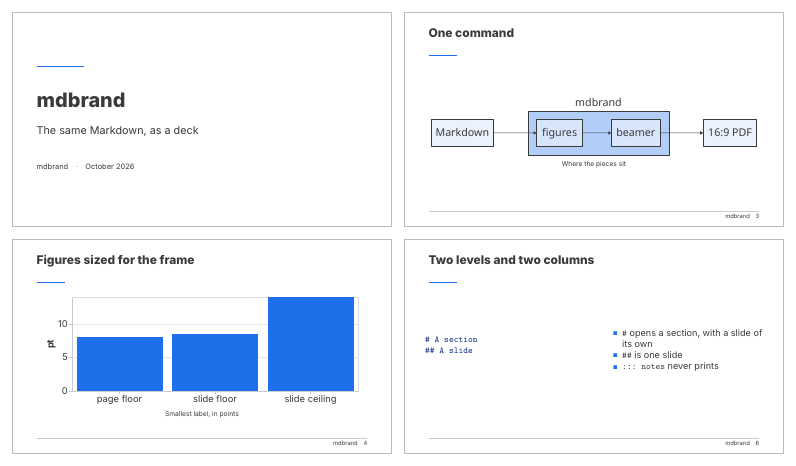
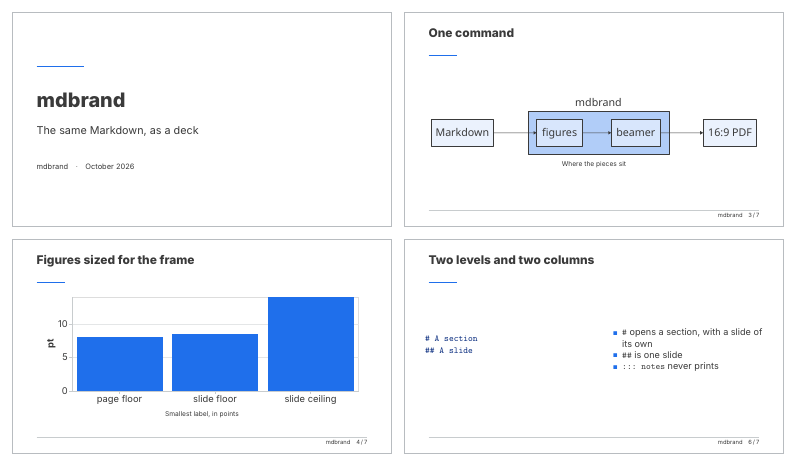
feat: the deck's footer numbers each slide out of the total

diff --git a/README.md b/README.md
@@ -601,7 +601,9 @@ the missing-glyph check, the text layer, `{{data…}}`, `{{words}}`,
   fullest step.
 - The title slide carries `title`, `subtitle`, `author`, `date`, `reference`,
   `confidential` and the bundle's `footer`; `confidential` repeats in every
-  slide's footer, beside `short_title`.
+  slide's footer, beside `short_title` and the slide's number out of the
+  total, `8 / 24`. The covers count, so the number is the one in the PDF
+  the audience has; a slide with pauses counts once.
 
 **Figures are sized for the frame, not the page**: 140 mm wide, 48 mm tall at
 most, and a legibility band of 8.5–14 pt. The floor is the 18 pt that a slide

diff --git a/SKILL.md b/SKILL.md
@@ -266,6 +266,8 @@ one that builds.
 - `. . .` on a line of its own pauses; `::: incremental` around a list reveals
   it point by point. Each step is a page with the slide's number, and a slide is
   judged by its fullest step.
+- The footer numbers slides out of the total (`8 / 24`), covers included,
+  pauses not.
 - Figures get 140 × 48 mm at most and a band of 8.5–14 pt. Draw them wide and
   low (`direction: right`) and keep edge labels few: one edge label can widen a
   d2 layout enough to push every label under the floor.
